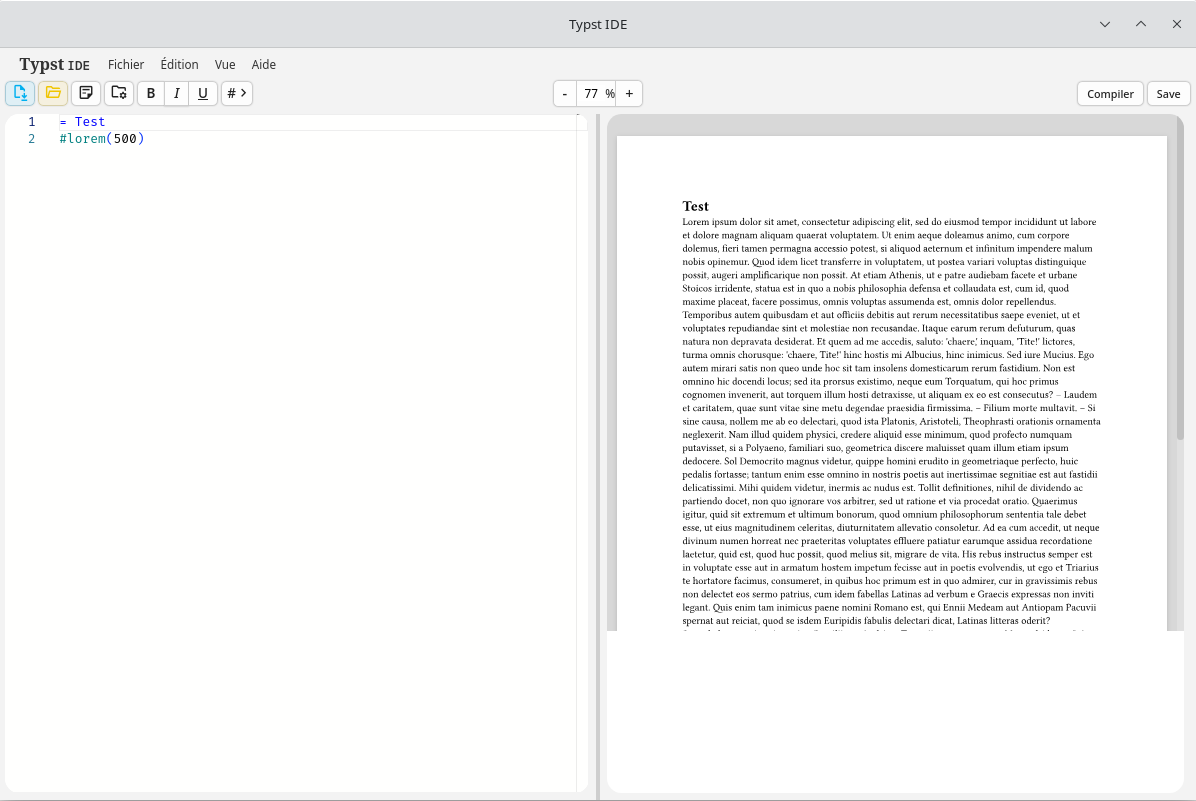
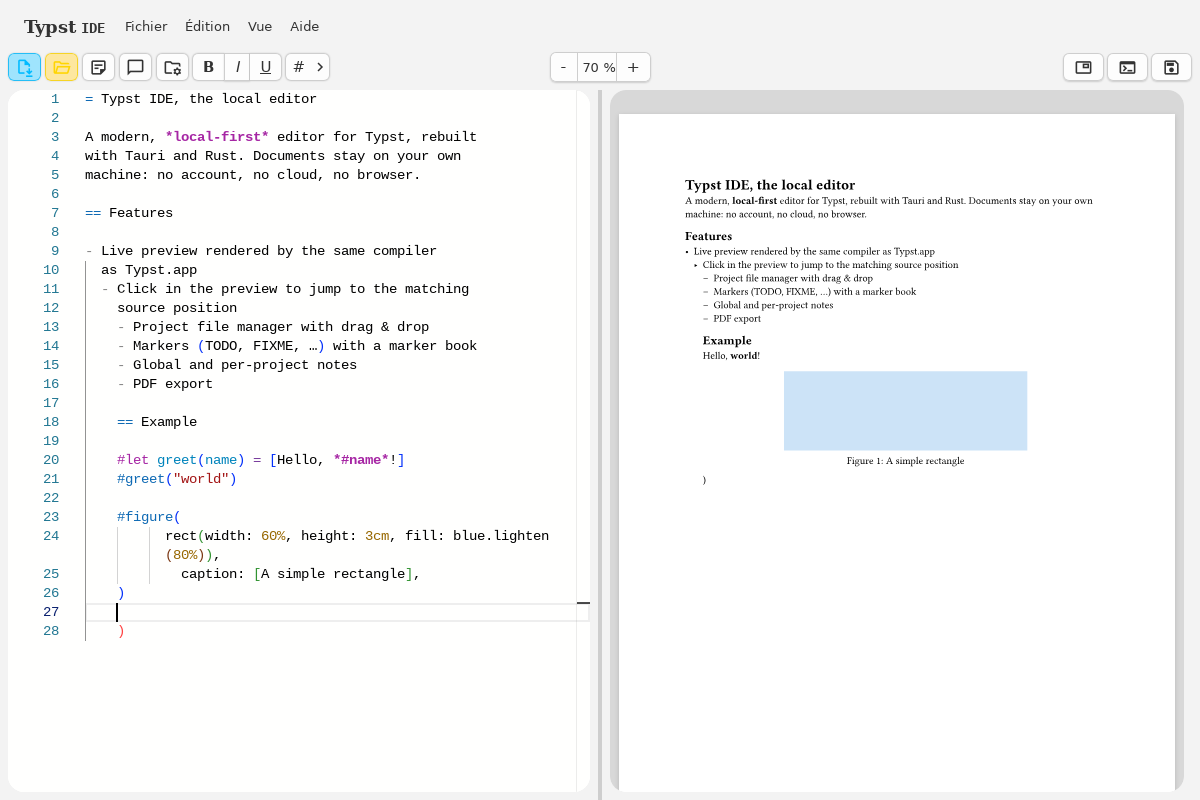
demo: container-based pipeline, static screenshots, regenerated images

diff --git a/demo/tests/helpers.js b/demo/tests/helpers.js
@@ -74,10 +74,47 @@ async function waitForEditor() {
 }
 
 /**
+ * Performs a raw pointer click at the center of the element matched by
+ * `selector`. Element-level clicks are rejected by WebKitWebDriver when a
+ * child element covers the click point (e.g. Monaco's `.view-lines` over
+ * `#typst-editor`), while raw pointer actions are not checked.
+ */
+async function rawClickCenter(selector) {
+  const el = await $(selector);
+  await el.waitForExist({ timeout: 15_000 });
+  const loc = await el.getLocation();
+  const size = await el.getSize();
+  const x = Math.round(loc.x + size.width / 2);
+  const y = Math.round(loc.y + size.height / 2);
+  await browser.performActions([
+    {
+      type: "pointer",
+      id: "demo-mouse",
+      parameters: { pointerType: "mouse" },
+      actions: [
+        { type: "pointerMove", duration: 0, origin: "viewport", x, y },
+        { type: "pointerDown", button: 0 },
+        { type: "pointerUp", button: 0 },
+      ],
+    },
+  ]);
+}
+
+/**
  * Clicks the Monaco editor area to give it focus
  */
 async function focusEditor() {
-  await $('[id="typst-editor"]').click();
+  await rawClickCenter('[id="typst-editor"]');
+  await browser.pause(200);
+}
+
+/**
+ * Clears the Monaco editor content (select-all + delete)
+ */
+async function clearEditor() {
+  await rawClickCenter('[id="typst-editor"] .monaco-editor .inputarea');
+  await browser.keys(["Control", "a"]);
+  await browser.keys("Delete");
   await browser.pause(200);
 }
 
@@ -87,4 +124,6 @@ module.exports = {
   typeInField,
   waitForEditor,
   focusEditor,
+  clearEditor,
+  rawClickCenter,
 };

diff --git a/demo/tests/preview.test.js b/demo/tests/preview.test.js
@@ -1,0 +1,55 @@
+/**
+ * Preview screenshot — the "hero" image of the app.
+ * Shows the editor with a polished demo document and the live preview.
+ * The last frame of this scenario is exported to images/preview.png.
+ */
+const {
+  createRecorder,
+  waitForEditor,
+  focusEditor,
+  clearEditor,
+  typeInEditor,
+} = require("./helpers");
+
+const shot = createRecorder("preview");
+
+const DEMO_DOCUMENT = `= Typst IDE, the local editor
+
+A modern, *local-first* editor for Typst, rebuilt
+with Tauri and Rust. Documents stay on your own
+machine: no account, no cloud, no browser.
+
+== Features
+
+- Live preview rendered by the same compiler
+  as Typst.app
+- Click in the preview to jump to the matching
+  source position
+- Project file manager with drag & drop
+- Markers (TODO, FIXME, …) with a marker book
+- Global and per-project notes
+- PDF export
+
+== Example
+
+#let greet(name) = [Hello, *#name*!]
+#greet("world")
+
+#figure(
+  rect(width: 60%, height: 3cm, fill: blue.lighten(80%)),
+  caption: [A simple rectangle],
+)
+`;
+
+describe("Preview screenshot", () => {
+  it("shows the editor and the live preview with a demo document", async () => {
+    await waitForEditor();
+
+    await focusEditor();
+    await clearEditor();
+    await typeInEditor(shot, DEMO_DOCUMENT, { freq: 999999, delay: 15 });
+
+    await browser.pause(1500);
+    await shot("final");
+  });
+});

diff --git a/demo/tests/preview-popup.test.js b/demo/tests/preview-popup.test.js
@@ -1,0 +1,49 @@
+/**
+ * Preview popup screenshot.
+ * Shows a document full of markers with the marker book open.
+ * The last frame of this scenario is exported to images/preview-popup.png.
+ */
+const {
+  createRecorder,
+  waitForEditor,
+  focusEditor,
+  clearEditor,
+  typeInEditor,
+} = require("./helpers");
+
+const shot = createRecorder("preview-popup");
+
+const MARKER_DOCUMENT = `= Project report
+
+// TODO: review the introduction once more
+// NOTE: remember to export the PDF before sharing
+// FIXME: add the missing figure caption
+
+== Draft
+
+The marker book collects every TODO, NOTE and
+FIXME found in the document. Clicking an entry
+jumps the editor to the matching line.
+
+// WARNING: check the bibliography entry format
+`;
+
+describe("Popup screenshot", () => {
+  it("shows the marker book over the editor", async () => {
+    await waitForEditor();
+
+    await focusEditor();
+    await clearEditor();
+    await typeInEditor(shot, MARKER_DOCUMENT, { freq: 999999, delay: 15 });
+
+    await browser.pause(800);
+
+    // The toolbar button lives in a dropdown menu; use the Ctrl+Alt+M
+    // shortcut instead (handled globally in shortcuts.js).
+    await browser.keys(["Alt", "m"]);
+
+    await $("#comments-book-list").waitForExist({ timeout: 10_000 });
+    await browser.pause(800);
+    await shot("popup");
+  });
+});

diff --git a/demo/wdio.conf.js b/demo/wdio.conf.js
@@ -3,7 +3,7 @@ const os = require('node:os');
 const { spawn } = require('node:child_process');
 
 const TAURI_DRIVER = path.join(os.homedir(), '.cargo', 'bin', 'tauri-driver');
-const BINARY = path.join(__dirname, '..', 'target', 'release', 'app');
+const BINARY = path.join(__dirname, '..', 'target', 'release', 'typst-ide');
 
 let tauriDriver;
 
@@ -14,7 +14,8 @@ exports.config = {
     specs: [
         './tests/walkthrough1.test.js',
         './tests/walkthrough2.test.js',
-        './tests/walkthrough3.test.js',
+        './tests/preview.test.js',
+        './tests/preview-popup.test.js',
     ],
 
     capabilities: [{

diff --git a/demo/README.md b/demo/README.md
@@ -1,11 +1,20 @@
 # Demo : Génération de GIFs avec Webdriver
 ## Prérequis
-### Outils système
+### Via conteneur (recommandé)
+Le pipeline complet tourne dans un conteneur Ubuntu 24.04 jetable (`demo/Dockerfile`) : il fournit `WebKitWebDriver` (requis par `tauri-driver`, absent des dépôts Arch) et reprend les versions épinglées du projet (Rust 1.98.1, Node 20.20.2, Tauri CLI 2.12.0). Docker seul est requis sur l'hôte.
+
+```bash
+cd demo
+bash run-container.sh
+```
+
+### En natif (hors Arch, où WebKitWebDriver est disponible)
 ```bash
 # Rust/Cargo (déjà requis pour le projet)
 cargo install tauri-driver   # WebDriver pour Tauri
 # Conversion video → GIF
 sudo apt install ffmpeg   # Debian/Ubuntu
+# WebKitWebDriver (paquet webkit2gtk-driver sur Debian/Ubuntu)
 ```
 
 ### Node.js
@@ -35,21 +44,29 @@ bash demo.sh --gif-only
 demo/
 ├── package.json
 ├── wdio.conf.js              # configuration WebdriverIO + tauri-driver
+├── Dockerfile                # image Ubuntu 24.04 (WebKitWebDriver, toolchain)
+├── run-container.sh          # lance le pipeline dans le conteneur
+├── run-in-container.sh       # étapes exécutées dans le conteneur
 ├── scripts/
 │   ├── record.sh             # build release → lance les tests
 │   └── convert.sh            # PNG sequences → GIFs optimisés
 └── tests/
-    ├── walkthrough1.test.js  # premier lancement de l'app
-    ├── walkthrough2.test.js  # saisie de texte + preview temps réel
-    └── walkthrough3.test.js  # notepad : création et insertion de note
+    ├── walkthrough1.test.js  # premier lancement de l'app (GIF)
+    ├── walkthrough2.test.js  # saisie de texte + preview temps réel (GIF)
+    ├── preview.test.js       # capture statique images/preview.png
+    └── preview-popup.test.js # carnet de marqueurs (images/preview-popup.png)
 ```
+
+Les scénarios `walkthrought*` produisent les GIFs `images/walkthrought*.gif` ;
+les scénarios `preview*` exportent leur dernière frame en PNG statique dans
+`images/` (voir `demo.sh`).
 
 ## Comment ça fonctionne
 `demo.sh` va :
 - Compiler le frontend (`npm run build`)
 - Compiler le binaire Tauri en mode `release` (`cargo tauri build --no-bundle`), utile pour une application suffisamment optimisée et fluide
 - Lancer Webdriver pour piloter l'app via les scripts de tests (demo)
-- Assembler les PNG en GIF via `ffmpeg` et compresser avec `gifsicle`
+- Assembler les PNG en GIF via `ffmpeg`
 
 ## Ajouter un nouveau scénario
 Un helper est disponible pour faciliter la création de scénarios de démonstration.
